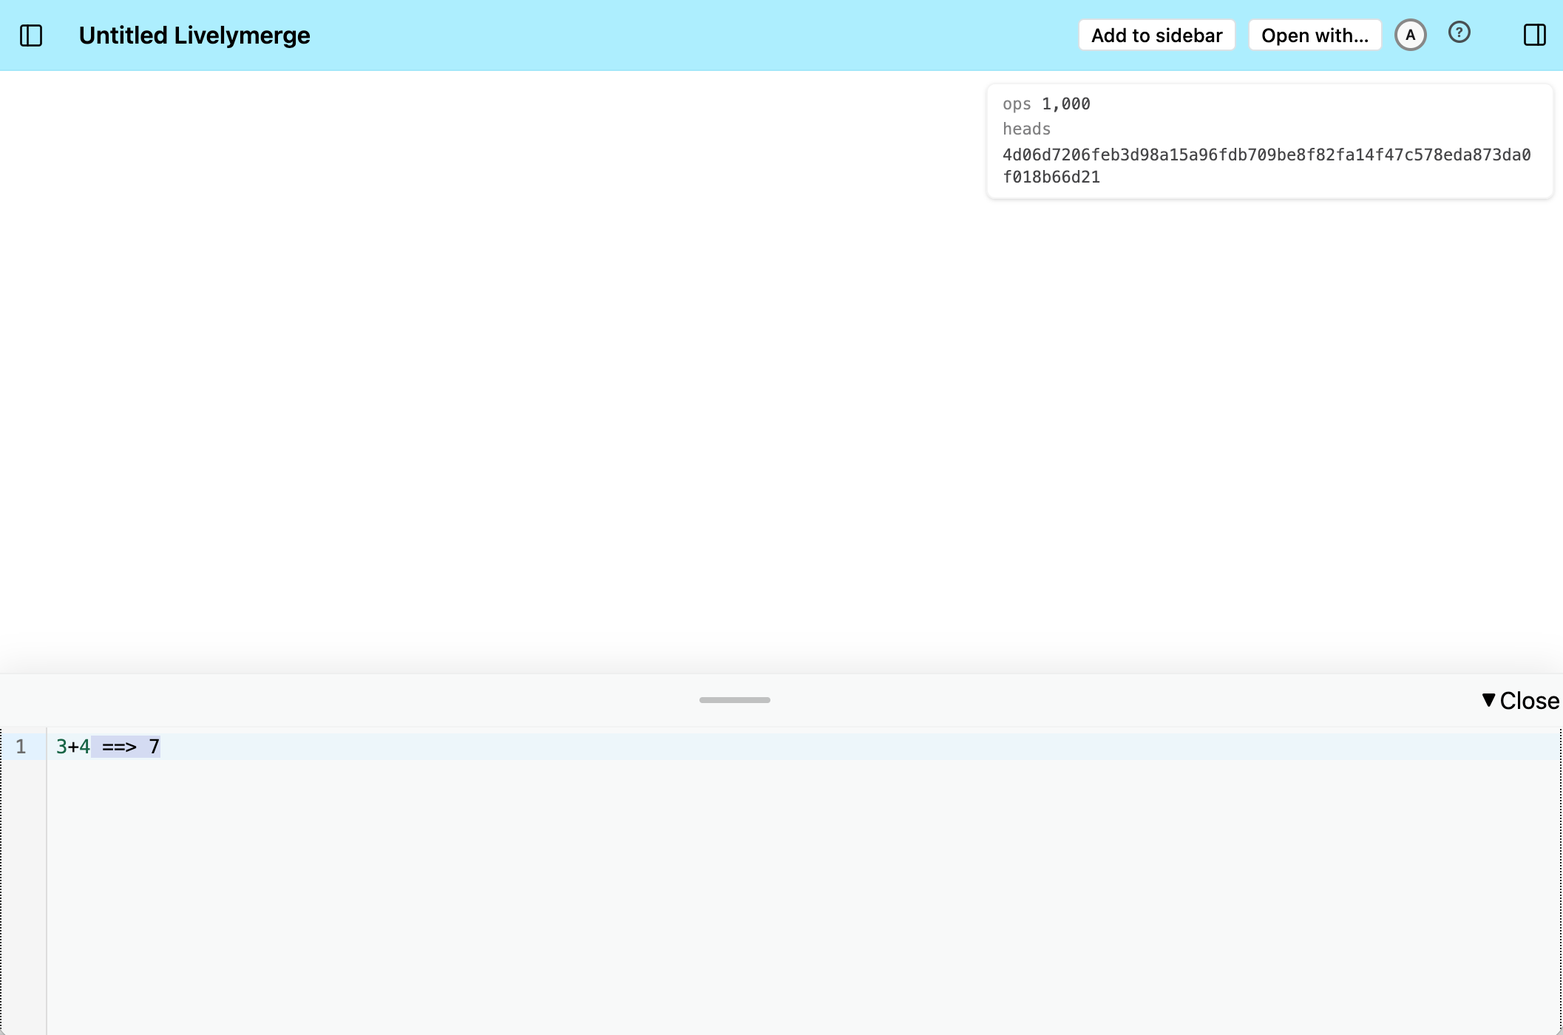
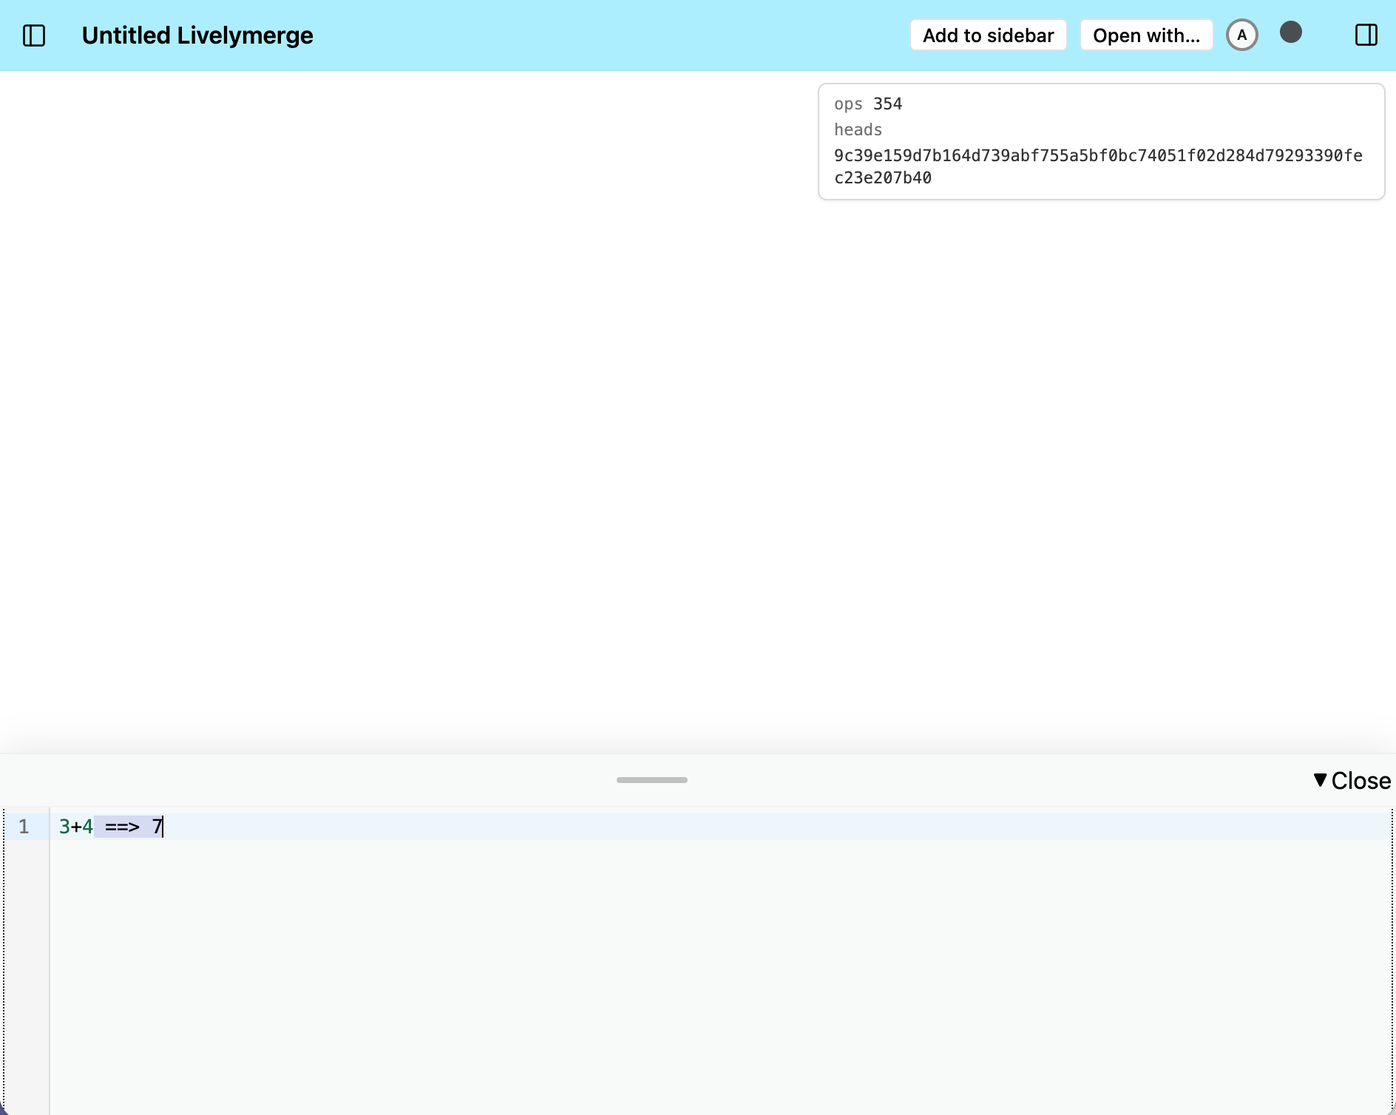
livelymerge: more updates to the next labnote

diff --git a/livelymerge/lab-notes/ln2.md b/livelymerge/lab-notes/ln2.md
@@ -16,7 +16,7 @@ Some challenges:
   - When multiple users are present, who is in charge of running what "processes"? E.g., if the program implements a simulation and more than one user is running the code, it's possible that some side effects will run two or more times which is undesirable.
   - Is it possible to represent the program's state in such a way that its invariants will be preserved when automatic merges happen as a result of multiple users' interactions with overlapping sets of objects?
 - **Performance:** Can we get programs to run fast enough for authentic use?
-- **Support for long-running programs:** We'd like to be able to support programs that we can "live in" -- the kind of system Dan is known for, like [Squeak](https://squeak.org/) and the [Lively Kernel](https://www.lively-kernel.org/). But these programs run for an unbounded amount of time, and so their corresponding Automerge documents will accumulate a very large number of changes. Can we pull this off? If not (given the current implementation of Automerge) are there changes to AM (planned or otherwise) that could make this work?
+- **Support for long-running programs:** We'd like to be able to support programs that we can "live in" — the kind of system Dan is known for, like [Squeak](https://squeak.org/) and the [Lively Kernel](https://www.lively-kernel.org/). But these programs run for an unbounded amount of time, and so their corresponding Automerge documents will accumulate a very large number of changes. Can we pull this off? If not (given the current implementation of Automerge) are there changes to AM (planned or otherwise) that could make this work?
 
 This note describes the object model we designed and implemented for this project. It automatically serializes and deserializes data from/to the program's Automerge document. You'll see what this means and why it's needed soon. But first...
 
@@ -28,13 +28,13 @@ Dan's Lively Kernel (LK) is a Squeak-like system that was written entirely in Ja
 
 As part of the Livelymerge project, Dan has written a new LK-like system whose heap is represented as an Automerge document. It includes a graphical user interface based on [Morphic](https://rmod-files.lille.inria.fr/FreeBooks/CollectiveNBlueBook/morphic.final.pdf), editable text areas, and even a Smalltalk-style browser. Everything in the system is written from scratch (the graphics bottom out at the HTML canvas) and the code can be viewed and edited from inside the system. This means that the user can make fundamental changes to the system, and in a multi-user context, those changes apply to all of the participants.
 
-(Sidebar: for a long time, I've wanted my colleagues at Ink & Switch to experience this kind of self-sustaining system firsthand, and this project was a nice excuse to make that happen.)
+(Sidebar: for a long time, I've wanted my colleagues at Ink & Switch to experience this kind of self-sustaining system firsthand, and this project was a good excuse to make that happen.)
 
 ## LM's Object Model
 
-LM programs are written in (mostly) ordinary JavaScript: object and array literals, top-level declarations, closures, even ES `class` syntax all work the way you'd expect. The difference is where the objects live: their state is represented in the program's associated Automerge document instead of the JS heap. This means that our objects are persistent and support collaboration right out of the box.
+LM programs are written in ordinary JavaScript: object and array literals, top-level declarations, closures, even `class` syntax all work the way you'd expect. The difference is where the objects live: their state is represented in the program's associated Automerge document instead of the JS heap. This means that our objects are persistent and support collaboration right out of the box.
 
-Two pieces make this work:
+The implementation has two main ingredients:
 
 - An **object model** — the subject of this note — consisting of the _global object_ (the equivalent of JavaScript's `globalThis`, and the root of the heap) plus a small set of primitives for creating new objects, arrays, and functions in the heap.
 - A **transpiler** that rewrites plain JavaScript to use those primitives, so you never call them yourself. (The transpiler probably deserves its own lab note; here I'll stick to the object model underneath it.)
@@ -60,7 +60,7 @@ counter(); // evaluates to 1
 counter(); // evaluates to 2
 ```
 
-So far, so JavaScript: `counter` is a closure, and each call bumps the `count` variable it captured. Now for the "oooohhh" part: if _you_ evaluate `counter()` on your computer, you'll get `3`. The captured `count` isn't sitting in my JS heap — like everything else, it lives in the document. In other words, the state of a closure's free variables is persistent and shared, too. (We'll see how this is represented shortly.)
+So far, so JavaScript: `counter` is a closure, and each call bumps the `count` variable it captured. Now for the "oooohhh" part: if _you_ evaluate `counter()` on your computer, you'll get `3`. The captured `count` isn't sitting in *my* JS heap — it lives in *our* Automerge document, like everything else. In other words, the state of a closure's free variables is persistent and shared, too. We'll see how this works soon.
 
 ## Representing Objects in the AM Document
 
@@ -70,7 +70,7 @@ In our object model, a property of an object can hold any value, including a ref
 obj.self = obj;
 ```
 
-So, just like in JS, it is possible for the heap of a LM program to contain cycles. But as we explained earlier, entire heap is represented as an AM document, which is JSON-like and must be tree-shaped. This means that our object model's implementation must **serialize** values to an AM-compatible format. (We discuss **deserialization** later in this note.) Here's what our serialized heap looks like:
+So, just like in JS, it is possible for the heap of a LM program to contain cycles. But as we explained earlier, the entire heap is represented as an AM document, which is JSON-like and must be tree-shaped. This means that our object model's implementation must **serialize** values to an AM-compatible format. Here's what our serialized heap looks like:
 
 ```
 {
@@ -82,7 +82,7 @@ So, just like in JS, it is possible for the heap of a LM program to contain cycl
 }
 ```
 
-As you can see, we have an _object table_ that maps object ids to their state. Note that object ids can't be sequential as this would result in clashes (think multi-user!) so we use UUIDs. (I've truncated them in the examples to keep things readable.)
+As you can see, we have an _object table_ that maps object ids to their state. Note that object ids can't be sequential as this would result in clashes (think multi-user!) so we use UUIDs.
 
 Here's what the state of an object in the object table looks like:
 
@@ -118,11 +118,11 @@ Functions get their own entries in the object table, too — they're first-class
 }
 ```
 
-Note the `$scopes` property: the transpiler analyzes each function for free variables, moves captured bindings onto _scope objects_ (which are ordinary heap objects), and serializes the function together with references to its scopes. This is what made the counter example work: `count` lives on a scope object in the heap, so when you called `counter()`, you and I were incrementing the same `count`.
+Note the `$scopes` property: the transpiler analyzes each function for free variables, moves captured bindings onto _scope objects_ (which are ordinary heap objects), and serializes the function together with references to its scopes. This is what made the counter example work: `count` lives in a scope object in the heap, so when you called `counter()`, you and I were incrementing the same `count`.
 
 ### Arrays
 
-An array value can't just be represented as an array of serialized values. This is because it must have an id in order for other objects to be able to reference (alias!) it. So each array in LM has an entry in the object table, with `$type = 'arr'` and a `$values` property that holds its (serialized) elements. This representation enables arrays in our object model to benefit from the array merge semantics in AM: if you push onto an array while I splice something out of it, both edits survive the merge.
+An array value can't just be represented as an array of serialized values. This is because it needs an id in order for other objects to be able to reference (alias!) it. So each array in LM has an entry in the object table, with `$type = 'arr'` and a `$values` property that holds its (serialized) elements. This representation enables arrays in our object model to benefit from the array merge semantics in AM: if you push onto an array while I splice something out of it, both edits survive the merge.
 
 ## The interface to LM's object model
 
@@ -130,10 +130,10 @@ Now that we know how objects are represented, we can discuss the interface in mo
 
 ### The global object
 
-The _global object_ is the root of LM's heap, and it is represented in the object table as the object with id `global`. When your code refers to a global (e.g., `f(5, 8)` above), the transpiler routes that reference to a _proxy_ for the global object. This proxy intercepts reads from and writes to the object's properties:
+The _global object_ is the root of LM's heap, and it is represented in the object table as the object with id `global`. When your code refers to a global (e.g., `f(5, 8)` above), the transpiler rewrites that reference into a property access on a _proxy_ for the global object. This proxy intercepts reads from and writes to the object's properties:
 
-- On a _write_ (e.g., `p = someValue` at the top level) the proxy will _serialize_ the value that's being written to the property and store it in the appropriate place in the program's AM document.
-- On a _read_ (e.g., `p`) the proxy will find the corresponding serialized value in the program's AM document. It will then return the result of _deserializing_ that value.
+- On a _write_, the proxy will _serialize_ the value that's being written to the property and store it in the appropriate place in the program's AM document.
+- On a _read_, the proxy will find the corresponding serialized value in the program's AM document. It will then return the result of _deserializing_ that value.
 
 #### Serializing values
 
@@ -149,23 +149,23 @@ The sample object table in the previous section includes examples of each of the
 Here's how deserialization works:
 
 - A serialized primitive value deserializes to itself.
-- A serialized reference deserializes to a _proxy_ for the referent. (For a function, calling the proxy evaluates the function's `$code` — memoized, so we always get the same underlying function for the same code — against its deserialized `$scopes`.)
+- A serialized reference deserializes to a _proxy_ for the referent. (For a function, calling the proxy evaluates the function's `$code` against its deserialized `$scopes`.)
 
-That's right! The global object is not special in this respect: in LM, every time we interact with an object, we're really interacting with a proxy that knows which object it's for. One detail that matters in practice: proxies are cached per object id, so deserializing the same object twice gives you _the same_ proxy — which means `===`, `Map` keys, and `Set` membership work the way you'd expect.
+The global object is not special in this respect: in LM, every time we interact with an object, we're really interacting with a proxy that knows which object it's for. One detail that matters in practice: proxies are cached per object id, so deserializing the same object twice gives you _the same_ proxy — which means `===`, `Map` keys, and `Set` membership work the way you'd expect.
 
 ### Creating objects
 
-When your code says `{ x: 5 }`, `[1, 2, 3]`, or `function (…) {…}`, the transpiler wraps the literal in a call to the corresponding object-model primitive, which builds the serialized entry and returns a proxy for it.
+When your code contains an object, array, or function literal — `{ x: 5 }`, `[1, 2, 3]`, `(x) => x + 1` — the transpiler rewrites it into a call to the corresponding creation primitive. That call does two things: it adds a new (serialized) entry to the object table, and it returns a proxy for the new object.
 
 Class declarations get the same treatment: the class becomes a constructor function in the heap, and its methods live on a prototype object that instances delegate to (via `$protoId`). And since classes and methods are heap objects like everything else, redefining a method — say, from the system browser — takes effect immediately for every collaborator.
 
-Between them, the transpiler and the proxies are what make LM feel like plain JavaScript. The transpiler's rewrites are all about _creating_ heap objects; everything you subsequently _do_ with those objects — reading and writing properties, calling methods — goes through their proxies, which take care of all of the serialization and deserialization that's required to operate on an AM-backed heap. This is also what keeps the transpiler thin: because the proxies do their work at run time, an expression like `p.x` can be left exactly as you wrote it.
+Together, the transpiler and the proxies are what make LM code feel like plain JavaScript — and the work is split cleanly between them. The transpiler rewrites the syntax that gets things _into_ the heap: literals, global references, the local variables captured by closures. Everything you subsequently _do_ with the objects in the heap — reading and writing properties, calling methods — goes through their proxies, which take care of all of the serialization and deserialization involved.
 
 ## The LM tool
 
-We have implemented a Livelymerge tool for Patchwork. Here's what a freshly-created LM document looks like when viewed through this tool:
+We have implemented Livelymerge as a tool for Patchwork. Here's what a freshly-created LM document looks like when viewed through this tool:
 
-![_A freshly-created Livelymerge document. The canvas is still blank; the panel in the top-right corner shows the state of the underlying Automerge document (its number of operations and current heads); and the workspace is open at the bottom, where we've just evaluated `3+4` with print-it._](lm-fresh.png)
+![_A freshly-created Livelymerge document. The canvas is still blank; the panel in the top-right corner shows the state of the underlying Automerge document (its number of operations and current heads); and the workspace is open at the bottom, where we've just evaluated `3+4` with a print-it._](lm-fresh.png)
 
 At the bottom of the page there is a large text area that works like a Smalltalk workspace. If the user selects some of the code inside the workspace and invokes "print it" (Cmd-P), that code will be evaluated by LM and the result will be displayed (by appending its stringified value to the workspace). "Do it" (Cmd-D) evaluates the selected code but doesn't display the result.
 
@@ -179,7 +179,7 @@ Dan is working on a lab note about the system depicted above, so stay tuned! In 
 
 ### The `change` function
 
-Our LM tool has a `DocHandle` for the program's AM document, and it makes changes to the document via the handle's `change` method. But we don't call that method directly from the UI -- instead, we wrap it in our own `change` function:
+Our LM tool has a `DocHandle` for the program's AM document, and it makes changes to the document via the handle's `change` method. But we don't call that method directly from the UI — instead, we wrap it in our own `change` function:
 
 ```
 function change(fn) {
@@ -204,7 +204,7 @@ function change(fn) {
 }
 ```
 
-(This is lightly simplified — the real version also handles nested calls and some bookkeeping that's out of scope for this note.)
+(This is slightly simplified — the real version also handles nested calls and some bookkeeping that's out of scope for this note.)
 
 The argument to this function (`fn`) is the code that we want to execute in LM. Usually it's a function that is created from the code that the user selected in the workspace. But we also use it in the event processing and rendering loop. (More on this in the next section.)
 
@@ -222,70 +222,21 @@ So new objects are not installed in the AM document's object table right away. I
 
 This lets us create lots of (temporary) fresh garbage like points and bounding boxes during rendering without accumulating useless operations in the AM document. (We push this "op economy" further in other ways, too — e.g., writes that would store an identical value are elided — to the point where an idle frame generates zero Automerge operations, as a runtime guarantee. Our op economy work, along with several other optimizations that we found to make a big difference, will be discussed in an upcoming lab note.)
 
-One more thing our GC does that may surprise you: objects that have made it into the AM document are **never collected**. Reachability is a _global_ property in a local-first system — an offline collaborator may still hold or re-link an object that looks unreachable from where I'm standing, and a local sweep would silently destroy their work at merge time. So the policy is: once persistent, immortal. (This costs nothing in terms of the document's _history_, which only ever grows anyway; it only grows the current-state snapshot.)
-
-I've included the source code for the promotion phase of our `gc` function in the appendix.
-
-## Coming Up
-
-There's a lot more to tell about Livelymerge than fits in one note. A few threads I'm planning to pull on in upcoming notes in this series:
-
-**Local state.** In a multi-user system, not everything should be shared: things like _my_ halo, _my_ keyboard focus, and _my_ animations belong to me, not to the document. We've recently added support for local (per-user) state to the object model — it fell out of the fresh-object machinery described above almost for free — and it's the subject of the next note.
-
-**Shared-but-ephemeral state.** One of the things we're most excited about is _hands_: objects in Morphic that represent the users, so you can see where I'm pointing and what I'm picking up. Hands pose a fun design puzzle: they should be _visible to_ other users, but not _persisted_ — a third category of state. We've recently devised a mechanism that supports it (built on Automerge-repo's ephemeral channels); more on that soon.
-
-**Performance.** Remember the challenge from the introduction — can these programs run fast enough for authentic use? Getting to "yes" took some doing: the op-economy work you saw in the GC section, plus several other optimizations that made a big difference. That story gets a note of its own.
-
-**The transpiler** — and what it took to make closures merge — probably deserves one, too.
-
-Some things remain genuinely open. We may someday design a programming language specifically for Livelymerge — there are ideas (about merging, about local vs. shared state) that probably deserve first-class syntax — though so far, writing (mostly) ordinary JavaScript has been good enough to build everything you've seen here. And long-running programs are still an open question: an idle system no longer accumulates operations, but a system that's actually being _used_ still grows its AM document's history unbounded. We are optimistic that changes/optimizations to AM could help here.
+One more thing our GC does that may surprise you: objects that have made it into the AM document are **never collected**. Reachability is a _global_ property in a local-first system — an offline collaborator may still hold or re-link an object that looks unreachable from where I'm standing, and a local sweep would silently destroy their work at merge time. So our policy is: *once persistent, immortal*. (This costs nothing in terms of the document's _history_, which only ever grows anyway; but it does grow the current-state snapshot.)
 
 ## Related Work
 
-The _Beckett_ project at Ink & Switch is exploring the use of Automerge to enable collaborative editing/authoring of [Godot](<https://en.wikipedia.org/wiki/Godot_(game_engine)>) games. LM is similar in the sense that it enables multiple users to collaborate on the same program. As in _Beckett_, LM's use of AM makes it easy to duplicate everything ("poor man's _fork_) in order to try out different ideas, etc. Of course LM doesn't have a very rich set of objects and multimedia capabilities yet, but it also doesn't suffer from the "real world" obstacles that sometimes limit what is feasible in _Beckett_. The fact that both of these projects going on at the same time enables the lab to work on this problem from two very different angles, which I think is exciting.
+The [Backstitch](https://www.inkandswitch.com/project/backstitch/) project at Ink & Switch is exploring the use of Automerge to enable collaborative editing/authoring of [Godot](<https://en.wikipedia.org/wiki/Godot_(game_engine)>) games. LM is similar in the sense that it enables multiple users to collaborate on the same program. As in Backstitch, LM's use of AM makes it easy to duplicate everything ("poor man's _fork_") in order to try out different ideas, etc. Of course LM doesn't have a very rich set of objects and multimedia capabilities yet, but it also doesn't suffer from the "real world" obstacles that sometimes limit what is feasible in Backstitch. The fact that both of these projects are going on at the same time enables the lab to work on this problem from two very different angles, which I think is exciting.
 
-Gilad Bracha is currently experimenting with a Croquet-based model of collaboration for his Newspeak. As Yoshiki Ohshima likes to say, Croquet is "network-first" (as opposed to Automerge, which is local-first) so there are different tradeoffs.
+Gilad Bracha is currently experimenting with a [Croquet](https://en.wikipedia.org/wiki/Croquet_Project)-based model of collaboration for his [Newspeak](<https://en.wikipedia.org/wiki/Newspeak_(programming_language)>). As Yoshiki Ohshima likes to say, Croquet is "network-first" (as opposed to Automerge, which is local-first) so there are different tradeoffs.
 
-## Appendix: `gc` (promotion phase)
+## Coming Up
 
-Here is a simplified version of the marking/promotion phase of our garbage collector. `shadowTable` holds the fresh objects created during this `change`; anything reachable from the root graduates into the AM document's object table, id unchanged. (Remember: entries that are already in the object table are immortal, so there is no persistent sweep.)
+We have a lot more to say about Livelymerge. A few threads I'm planning to pull on in upcoming notes in this series:
 
-```
-function gc() {
-  const live = new Set();
+**Local state.** In a multi-user system, not everything should be shared: things like _my_ halo (a ring of command handles that appears around a morph) and _my_ keyboard focus belong to me, not to the document. We've recently added support for local (per-user) state to the object model — it fell out of the fresh-object machinery described above almost for free — and it's the subject of the next note.
 
-  visit('global');
+**Shared-but-ephemeral state.** One of the things we're most excited about is _hands_: objects in Morphic that represent the users, so you can see where I'm pointing and what I'm picking up. Hands pose a fun design puzzle: they should be _visible to_ other users, but not _persisted_ — a third category of state. We've recently devised a mechanism that supports it (built on Automerge Repo's ephemeral channels); more on that soon.
 
-  // fresh objects that were never reached are reclaimed here,
-  // without the AM document ever knowing they existed
-  for (const id of Object.keys(shadowTable)) {
-    if (!live.has(id)) {
-      delete shadowTable[id];
-    }
-  }
-
-  // helpers
-
-  function visit(id) {
-    if (live.has(id)) {
-      return;
-    }
-
-    live.add(id);
-
-    // a fresh object that's reachable from the root gets promoted
-    if (shadowTable[id]) {
-      doc.objectTable[id] = shadowTable[id];
-      delete shadowTable[id];
-    }
-
-    const entry = doc.objectTable[id];
-    for (const v of Object.values(entry)) {
-      if (isRef(v)) {
-        visit(v.$id);
-      }
-    }
-  }
-}
-```
+**Performance.** Remember the challenge from the introduction — can these programs run fast enough for authentic use? Getting to "yes" took some doing: the op-economy work you saw in the GC section, plus several other optimizations that made a big difference. That story will get a note of its own.
 
